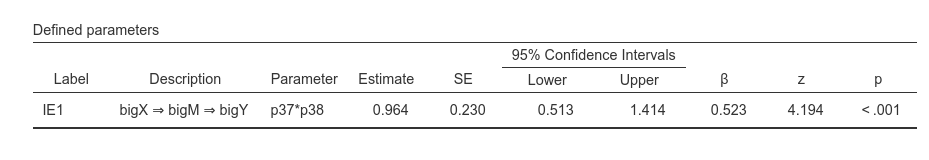
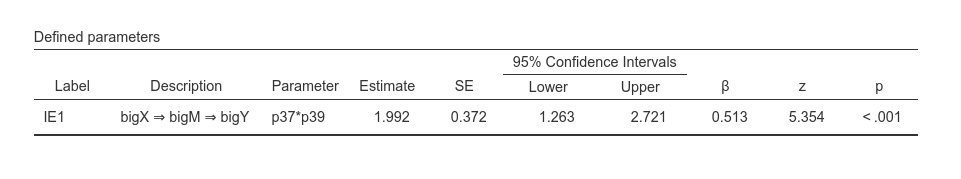
updates

Changed region(s): [[0.0312, 0.4375, 0.9989, 0.8125], [0.0312, 0.1562, 0.9989, 0.375], [0.5307, 0.4062, 0.7492, 0.4375]]

diff --git a/docs/example5.html b/docs/example5.html
@@ -445,26 +445,29 @@ bigy~bigm+bigx</code></pre>
 <h1>Output</h1>
 <p>As soon as we set the input, we obtain the whole set of results tables. We do not go through the results in detail, but it is interesting to see the basic results</p>
 <p><img src=" pics/example5/output_info1.png " class="img-responsive" alt=""></p>
-<p>The info table gives some detail about the estimation, and lists the syntax resulting from our setup in the interactive input panel. We can notice that the resulting syntax is identical to the one we used before in the <em>syntax sub-module</em>, so we can be sure that the results are the same.</p>
+<p>The info table gives some detail about the estimation, and lists the syntax resulting from our setup in the interactive input panel. We can notice that the resulting syntax is identical to the one we used before in the <em>syntax sub-module</em>, so we can rest assured that the results are going to be the same.</p>
 <p><img src=" pics/example5/output_measure1.png " class="img-responsive" alt=""></p>
 <p>The measurement model table indicates the associations between the observed variables and the facets, and then the associations between facets and second order factors. Factor loadings are all quite large, thus the model makes sense in terms of measures.</p>
 <p>We can also ask for the reliability of the first order factors</p>
-<p><img src=" pics/example5/input_options1.png " class="img-responsive" alt=""></p>
+<p><img src=" pics/example5/input_options1.png " class="img-responsive" alt=""> <img src=" pics/example5/output_reliability1.png " class="img-responsive" alt=""></p>
 <p>and check they have all a pretty good alpha and omega. At the moment, reliability is not available for second order factors (we’ll see how to improve this in future versions).</p>
 <p>The other interesting table is the regression coefficients table.</p>
 <p><img src=" pics/example5/output_regression1.png " class="img-responsive" alt=""></p>
 <p>We can see that <code>bigX</code> has a positive and significant effect on <code>bigM</code>, which in turn has an effect on <code>bigY</code>. So, mediation is warranted.</p>
+</div>
+<div id="mediated-effect" class="section level1">
+<h1>Mediated effect</h1>
 <p>But what about the mediated effect? Well, that can be asked in the <span class="option">Parameters Options</span> panel by selecting <span class="option">Indirect Effects</span>.</p>
 <p><img src=" pics/example5/input_options2.png " class="img-responsive" alt=""></p>
 <p>The results are straightforward</p>
 <p><img src=" pics/example5/output_indirect1.png " class="img-responsive" alt=""></p>
-<p>The mediated effect amounts to .964, corresponding to .523 in the standardized scale.</p>
+<p>The mediated effect amounts to 1.992, corresponding to .513 in the standardized scale.</p>
 <p>The same result can be obtained by specifying new parameters in the <span class="option">Custom model settings</span>. Let’s try: First, we ask for the parameters labels, so we can refer to the coefficients with their labels.</p>
 <p><img src=" pics/example5/input_options3.png " class="img-responsive" alt=""></p>
 <p>Then we look up in the regression table the labels of the coefficients we need</p>
 <p><img src=" pics/example5/output_regression2.png " class="img-responsive" alt=""></p>
-<p>We want to multiply bigX-&gt;bigM, <code>p37</code>, with bigM-&gt;bigY, so p38. In addition, we add <code>p39</code> to the mediated effect so we get also the total effect.</p>
-<p>In the <span class="option">Custom model settings</span>, we preceed as follows:</p>
+<p>We want to multiply bigX-&gt;bigM, <code>p37</code>, with bigM-&gt;bigY, so <code>p38</code>. In addition, we add <code>p39</code> to the mediated effect so we get also the total effect.</p>
+<p>In the <span class="option">Custom model settings</span>, we preceed in defining the mediated effect (ME), the total effect (TOT), and since I’m lazy, I ask to compute also the proportion of mediated effect (pME), rather than using and hand calculator:</p>
 <p><img src=" pics/example5/input_dp1.png " class="img-responsive" alt=""></p>
 <p>As expected, the results are the same as the ones obtained with the indirect effects option.</p>
 <p><img src=" pics/example5/output_indirect2.png " class="img-responsive" alt=""></p>

diff --git a/example5.html b/example5.html
@@ -445,26 +445,29 @@ bigy~bigm+bigx</code></pre>
 <h1>Output</h1>
 <p>As soon as we set the input, we obtain the whole set of results tables. We do not go through the results in detail, but it is interesting to see the basic results</p>
 <p><img src=" pics/example5/output_info1.png " class="img-responsive" alt=""></p>
-<p>The info table gives some detail about the estimation, and lists the syntax resulting from our setup in the interactive input panel. We can notice that the resulting syntax is identical to the one we used before in the <em>syntax sub-module</em>, so we can be sure that the results are the same.</p>
+<p>The info table gives some detail about the estimation, and lists the syntax resulting from our setup in the interactive input panel. We can notice that the resulting syntax is identical to the one we used before in the <em>syntax sub-module</em>, so we can rest assured that the results are going to be the same.</p>
 <p><img src=" pics/example5/output_measure1.png " class="img-responsive" alt=""></p>
 <p>The measurement model table indicates the associations between the observed variables and the facets, and then the associations between facets and second order factors. Factor loadings are all quite large, thus the model makes sense in terms of measures.</p>
 <p>We can also ask for the reliability of the first order factors</p>
-<p><img src=" pics/example5/input_options1.png " class="img-responsive" alt=""></p>
+<p><img src=" pics/example5/input_options1.png " class="img-responsive" alt=""> <img src=" pics/example5/output_reliability1.png " class="img-responsive" alt=""></p>
 <p>and check they have all a pretty good alpha and omega. At the moment, reliability is not available for second order factors (we’ll see how to improve this in future versions).</p>
 <p>The other interesting table is the regression coefficients table.</p>
 <p><img src=" pics/example5/output_regression1.png " class="img-responsive" alt=""></p>
 <p>We can see that <code>bigX</code> has a positive and significant effect on <code>bigM</code>, which in turn has an effect on <code>bigY</code>. So, mediation is warranted.</p>
+</div>
+<div id="mediated-effect" class="section level1">
+<h1>Mediated effect</h1>
 <p>But what about the mediated effect? Well, that can be asked in the <span class="option">Parameters Options</span> panel by selecting <span class="option">Indirect Effects</span>.</p>
 <p><img src=" pics/example5/input_options2.png " class="img-responsive" alt=""></p>
 <p>The results are straightforward</p>
 <p><img src=" pics/example5/output_indirect1.png " class="img-responsive" alt=""></p>
-<p>The mediated effect amounts to .964, corresponding to .523 in the standardized scale.</p>
+<p>The mediated effect amounts to 1.992, corresponding to .513 in the standardized scale.</p>
 <p>The same result can be obtained by specifying new parameters in the <span class="option">Custom model settings</span>. Let’s try: First, we ask for the parameters labels, so we can refer to the coefficients with their labels.</p>
 <p><img src=" pics/example5/input_options3.png " class="img-responsive" alt=""></p>
 <p>Then we look up in the regression table the labels of the coefficients we need</p>
 <p><img src=" pics/example5/output_regression2.png " class="img-responsive" alt=""></p>
-<p>We want to multiply bigX-&gt;bigM, <code>p37</code>, with bigM-&gt;bigY, so p38. In addition, we add <code>p39</code> to the mediated effect so we get also the total effect.</p>
-<p>In the <span class="option">Custom model settings</span>, we preceed as follows:</p>
+<p>We want to multiply bigX-&gt;bigM, <code>p37</code>, with bigM-&gt;bigY, so <code>p38</code>. In addition, we add <code>p39</code> to the mediated effect so we get also the total effect.</p>
+<p>In the <span class="option">Custom model settings</span>, we preceed in defining the mediated effect (ME), the total effect (TOT), and since I’m lazy, I ask to compute also the proportion of mediated effect (pME), rather than using and hand calculator:</p>
 <p><img src=" pics/example5/input_dp1.png " class="img-responsive" alt=""></p>
 <p>As expected, the results are the same as the ones obtained with the indirect effects option.</p>
 <p><img src=" pics/example5/output_indirect2.png " class="img-responsive" alt=""></p>
